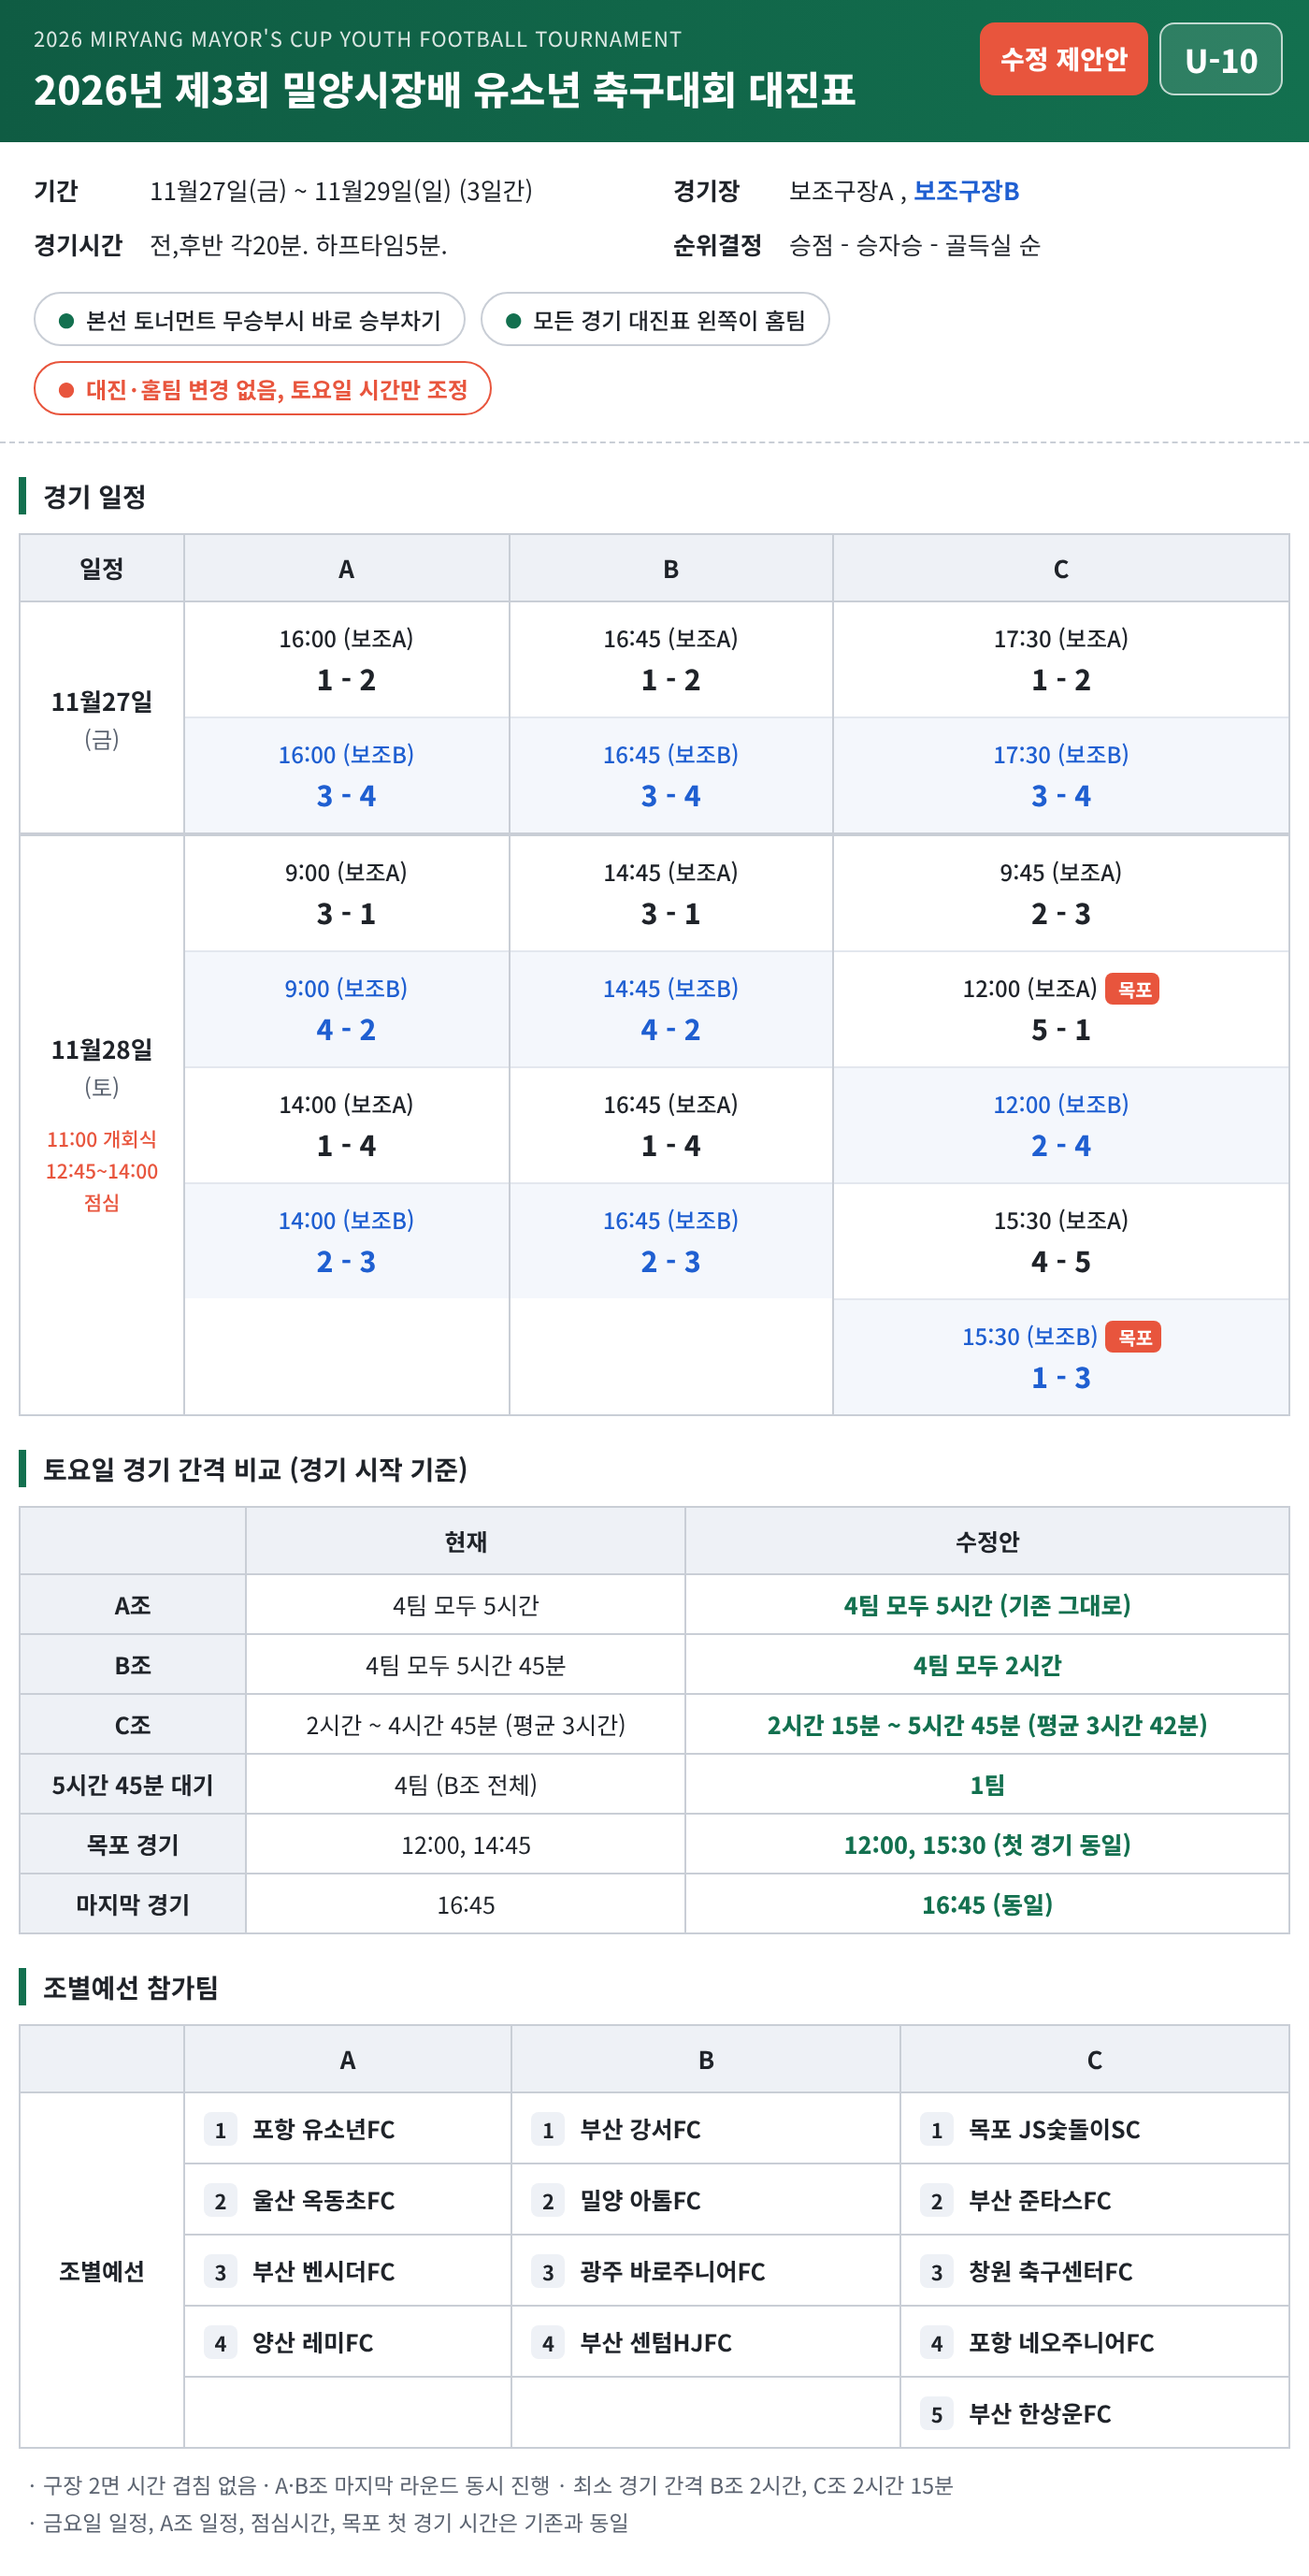
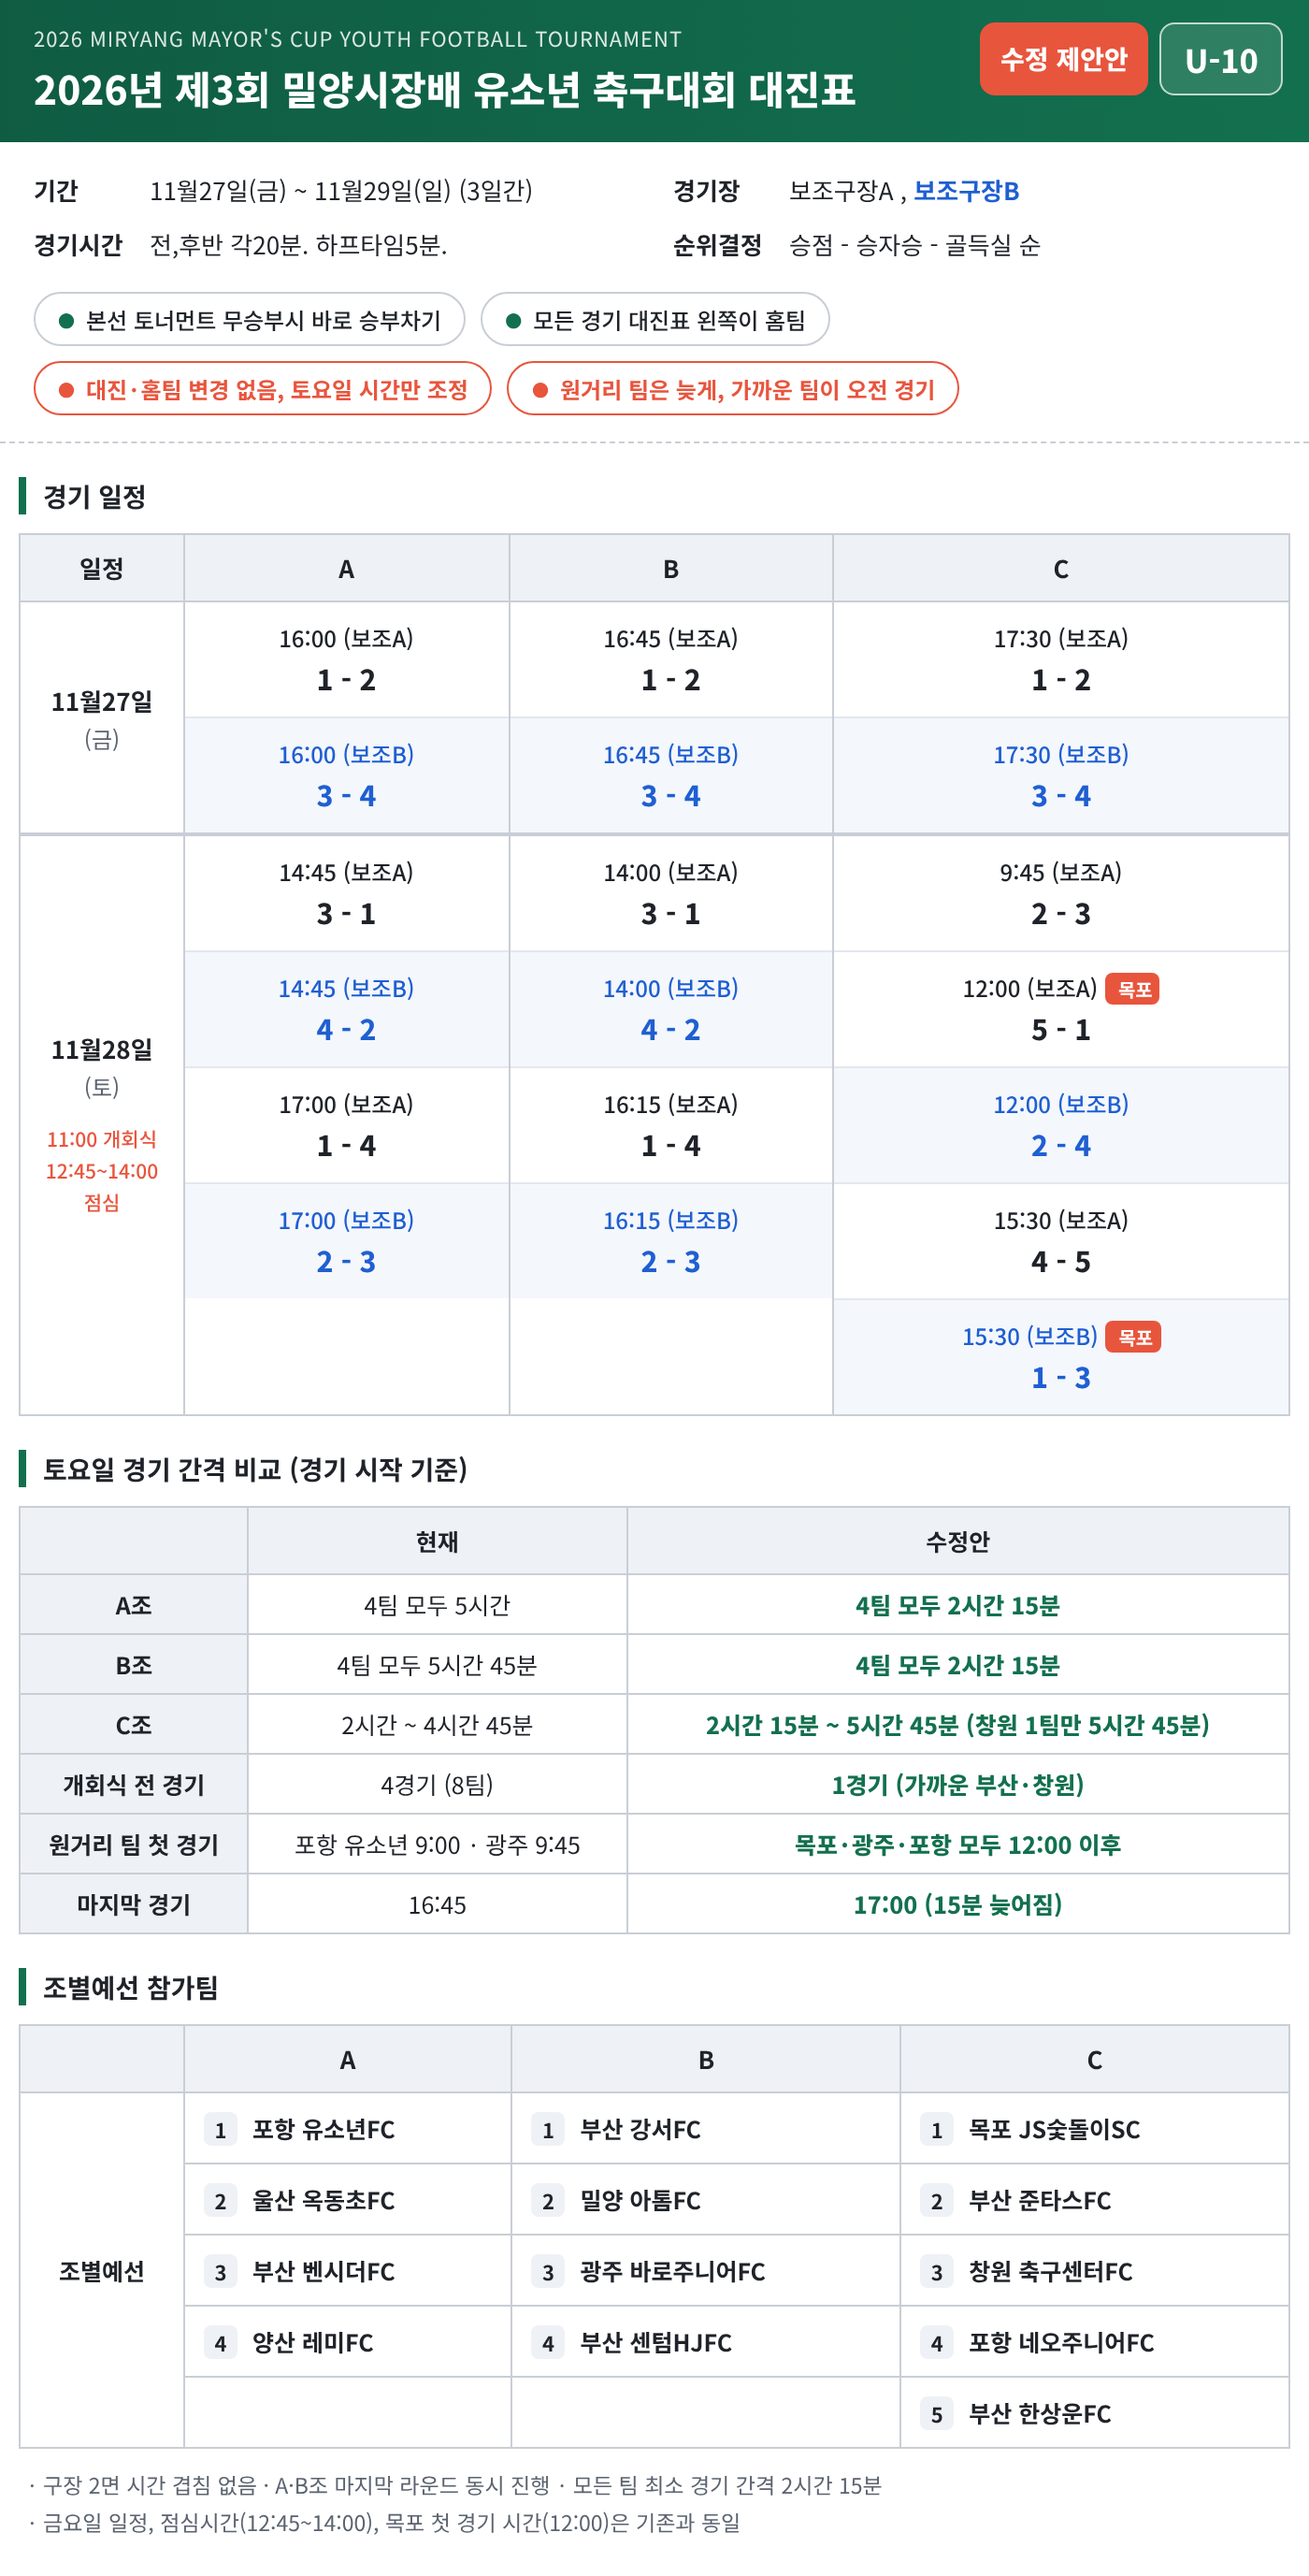
Rebalance Saturday schedule by team travel distance
Claude-Session: https://claude.ai/code/session_01PvWX4VaDScZmFjzGSQV6oC

diff --git a/schedule/schedule.html b/schedule/schedule.html
@@ -70,6 +70,7 @@
     <div class="chip">본선 토너먼트 무승부시 바로 승부차기</div>
     <div class="chip">모든 경기 대진표 왼쪽이 홈팀</div>
     <div class="chip hl">대진·홈팀 변경 없음, 토요일 시간만 조정</div>
+    <div class="chip hl">원거리 팀은 늦게, 가까운 팀이 오전 경기</div>
   </div>
 
   <h2>경기 일정</h2>
@@ -95,16 +96,16 @@
         <td class="date">11월28일<small>(토)</small>
           <span class="ev">11:00 개회식<br>12:45~14:00<br>점심</span></td>
         <td class="col"><div class="stack">
-          <div class="g"><div class="tm">9:00 (보조A)</div><div class="sc">3 - 1</div></div>
-          <div class="g b"><div class="tm">9:00 (보조B)</div><div class="sc">4 - 2</div></div>
-          <div class="g"><div class="tm">14:00 (보조A)</div><div class="sc">1 - 4</div></div>
-          <div class="g b"><div class="tm">14:00 (보조B)</div><div class="sc">2 - 3</div></div>
-        </div></td>
-        <td class="col"><div class="stack">
           <div class="g"><div class="tm">14:45 (보조A)</div><div class="sc">3 - 1</div></div>
           <div class="g b"><div class="tm">14:45 (보조B)</div><div class="sc">4 - 2</div></div>
-          <div class="g"><div class="tm">16:45 (보조A)</div><div class="sc">1 - 4</div></div>
-          <div class="g b"><div class="tm">16:45 (보조B)</div><div class="sc">2 - 3</div></div>
+          <div class="g"><div class="tm">17:00 (보조A)</div><div class="sc">1 - 4</div></div>
+          <div class="g b"><div class="tm">17:00 (보조B)</div><div class="sc">2 - 3</div></div>
+        </div></td>
+        <td class="col"><div class="stack">
+          <div class="g"><div class="tm">14:00 (보조A)</div><div class="sc">3 - 1</div></div>
+          <div class="g b"><div class="tm">14:00 (보조B)</div><div class="sc">4 - 2</div></div>
+          <div class="g"><div class="tm">16:15 (보조A)</div><div class="sc">1 - 4</div></div>
+          <div class="g b"><div class="tm">16:15 (보조B)</div><div class="sc">2 - 3</div></div>
         </div></td>
         <td class="col"><div class="stack">
           <div class="g"><div class="tm">9:45 (보조A)</div><div class="sc">2 - 3</div></div>
@@ -121,12 +122,12 @@
   <table class="cmp">
     <thead><tr><th></th><th>현재</th><th>수정안</th></tr></thead>
     <tbody>
-      <tr><td class="k">A조</td><td>4팀 모두 5시간</td><td class="new">4팀 모두 5시간 (기존 그대로)</td></tr>
-      <tr><td class="k">B조</td><td>4팀 모두 5시간 45분</td><td class="new">4팀 모두 2시간</td></tr>
-      <tr><td class="k">C조</td><td>2시간 ~ 4시간 45분 (평균 3시간)</td><td class="new">2시간 15분 ~ 5시간 45분 (평균 3시간 42분)</td></tr>
-      <tr><td class="k">5시간 45분 대기</td><td>4팀 (B조 전체)</td><td class="new">1팀</td></tr>
-      <tr><td class="k">목포 경기</td><td>12:00, 14:45</td><td class="new">12:00, 15:30 (첫 경기 동일)</td></tr>
-      <tr><td class="k">마지막 경기</td><td>16:45</td><td class="new">16:45 (동일)</td></tr>
+      <tr><td class="k">A조</td><td>4팀 모두 5시간</td><td class="new">4팀 모두 2시간 15분</td></tr>
+      <tr><td class="k">B조</td><td>4팀 모두 5시간 45분</td><td class="new">4팀 모두 2시간 15분</td></tr>
+      <tr><td class="k">C조</td><td>2시간 ~ 4시간 45분</td><td class="new">2시간 15분 ~ 5시간 45분 (창원 1팀만 5시간 45분)</td></tr>
+      <tr><td class="k">개회식 전 경기</td><td>4경기 (8팀)</td><td class="new">1경기 (가까운 부산·창원)</td></tr>
+      <tr><td class="k">원거리 팀 첫 경기</td><td>포항 유소년 9:00 · 광주 9:45</td><td class="new">목포·광주·포항 모두 12:00 이후</td></tr>
+      <tr><td class="k">마지막 경기</td><td>16:45</td><td class="new">17:00 (15분 늦어짐)</td></tr>
     </tbody>
   </table>
 
@@ -143,8 +144,8 @@
     </tbody>
   </table>
   <div class="notes">
-    · 구장 2면 시간 겹침 없음 · A·B조 마지막 라운드 동시 진행 · 최소 경기 간격 B조 2시간, C조 2시간 15분<br>
-    · 금요일 일정, A조 일정, 점심시간, 목포 첫 경기 시간은 기존과 동일
+    · 구장 2면 시간 겹침 없음 · A·B조 마지막 라운드 동시 진행 · 모든 팀 최소 경기 간격 2시간 15분<br>
+    · 금요일 일정, 점심시간(12:45~14:00), 목포 첫 경기 시간(12:00)은 기존과 동일
   </div>
 </div>
 </body>
